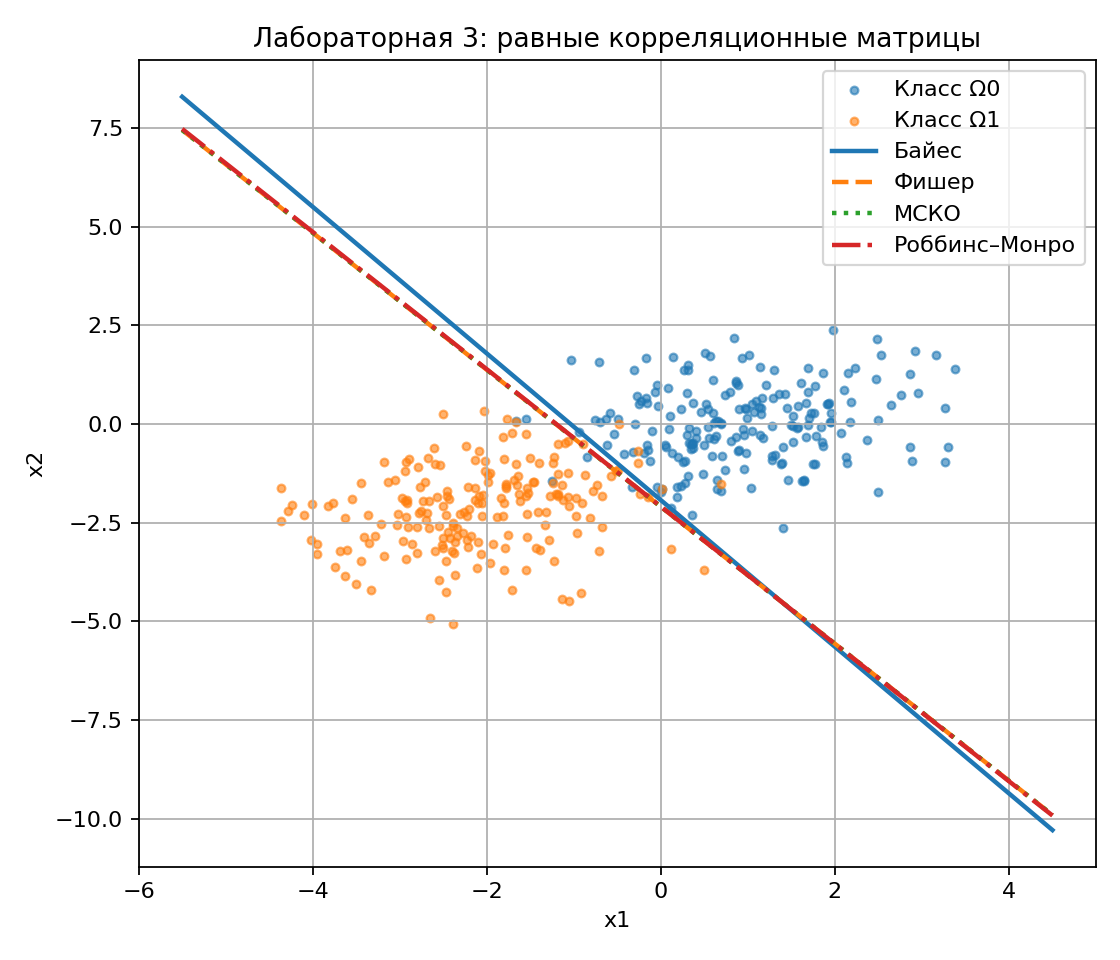
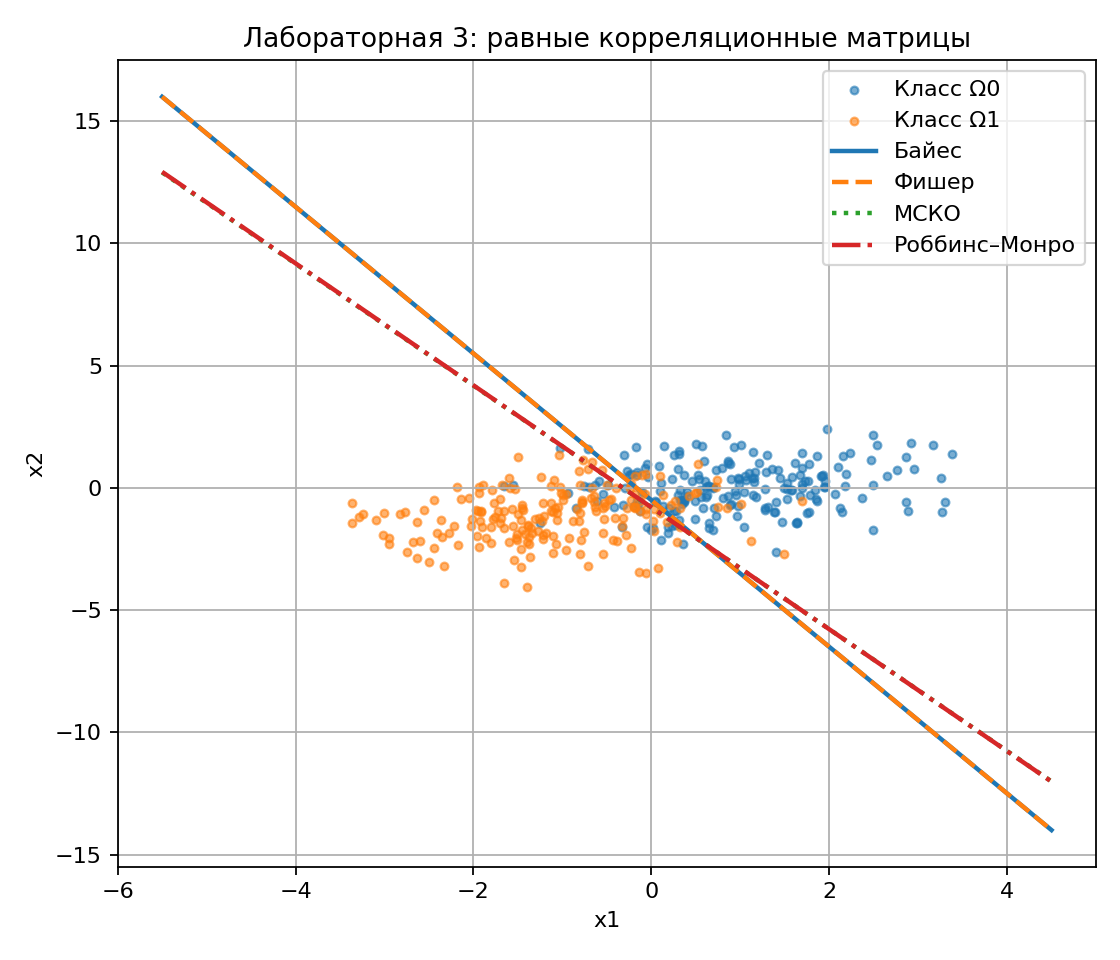
lab3 done

Changed region(s): [[0.0625, 0.0312, 0.9688, 0.9375], [0.5312, 0.9375, 0.5625, 0.9688], [0.1562, 0.1875, 0.1875, 0.2188]]

diff --git a/ЛР3/lab3.py b/ЛР3/lab3.py
@@ -19,14 +19,15 @@ rng = np.random.default_rng(7)
 N = 200
 
 M1 = np.array([1.0, 0.0])
-M2 = np.array([-2.0, -2.0])
+M2 = np.array([-1.0, -1.0])
 
 B_equal = np.array([[1.0, 0.2],
                     [0.2, 1.0]])
 B1 = np.array([[1.0, -0.9],
                [-0.9, 1.0]])
-B2 = np.array([[1.0, 0.0],
-               [0.0, 1.0]])
+B2 = np.array([[1.0, 0.4],
+               [0.4, 1.0]])
+
 
 def ensure_data() -> Dict[str, np.ndarray]:
     files = {
@@ -56,8 +57,18 @@ def ensure_data() -> Dict[str, np.ndarray]:
 
     return {'X1': X1, 'X2': X2, 'X1_3': X1_3, 'X2_3': X2_3}
 
+
 def classify_linear(X: np.ndarray, w: np.ndarray, w0: float) -> np.ndarray:
     return (X @ w + w0 >= 0).astype(int)
+
+
+def classification_error(X0: np.ndarray, X1: np.ndarray, w: np.ndarray, w0: float) -> float:
+    accuracy = 0.5 * (
+        np.mean(classify_linear(X0, w, w0) == 0) +
+        np.mean(classify_linear(X1, w, w0) == 1)
+    )
+    return 1.0 - accuracy
+
 
 def plot_linear_boundary(ax, w, w0, xlim, label, style='-'):
     xs = np.linspace(xlim[0], xlim[1], 200)
@@ -68,6 +79,54 @@ def plot_linear_boundary(ax, w, w0, xlim, label, style='-'):
     ys = -(w[0] * xs + w0) / w[1]
     ax.plot(xs, ys, style, linewidth=2, label=label)
 
+def plot_bayes_quadratic(ax, M1, B1, M2, B2, xlim, ylim, label):
+    xs = np.linspace(xlim[0], xlim[1], 400)
+    ys = np.linspace(ylim[0], ylim[1], 400)
+
+    Xg, Yg = np.meshgrid(xs, ys)
+
+    grid = np.stack(
+        [Xg.ravel(), Yg.ravel()],
+        axis=1
+    )
+
+    invB1 = inv(B1)
+    invB2 = inv(B2)
+
+    g1 = (
+        -0.5 * np.log(det(B1))
+        -0.5 * np.einsum(
+            '...i,ij,...j->...',
+            grid - M1,
+            invB1,
+            grid - M1
+        )
+    )
+
+    g2 = (
+        -0.5 * np.log(det(B2))
+        -0.5 * np.einsum(
+            '...i,ij,...j->...',
+            grid - M2,
+            invB2,
+            grid - M2
+        )
+    )
+
+    Z = (g2 - g1).reshape(Xg.shape)
+
+    ax.contour(
+        Xg,
+        Yg,
+        Z,
+        levels=[0],
+        linewidths=2,
+        linestyles='-',
+        colors='black'
+    )
+
+    ax.plot([], [], color='black', linewidth=2, label=label)
+
 def fisher_linear_params(M0: np.ndarray, B0: np.ndarray, M1: np.ndarray, B1: np.ndarray):
     Sw = B0 + B1
     w = inv(Sw) @ (M1 - M0)
@@ -75,6 +134,7 @@ def fisher_linear_params(M0: np.ndarray, B0: np.ndarray, M1: np.ndarray, B1: np.
     m1 = w @ M1
     w0 = -0.5 * (m1 + m0)
     return w, w0
+
 
 def mse_linear_params(X0: np.ndarray, X1: np.ndarray):
     Z = np.vstack([
@@ -87,6 +147,7 @@ def mse_linear_params(X0: np.ndarray, X1: np.ndarray):
     ])
     W = np.linalg.pinv(Z) @ y
     return W[:-1], W[-1]
+
 
 def rm_linear_params(X0: np.ndarray, X1: np.ndarray, alpha0=0.4, beta=0.7, epochs=25, W0=None, seed=7):
     rng_local = np.random.default_rng(seed)
@@ -114,6 +175,7 @@ def rm_linear_params(X0: np.ndarray, X1: np.ndarray, alpha0=0.4, beta=0.7, epoch
             t += 1
     return W[:-1], W[-1], np.asarray(hist)
 
+
 def rm_history_errors(history: np.ndarray, X0: np.ndarray, X1: np.ndarray):
     Z = np.vstack([
         np.hstack([X1, np.ones((X1.shape[0], 1))]),
@@ -129,6 +191,7 @@ def rm_history_errors(history: np.ndarray, X0: np.ndarray, X1: np.ndarray):
         errs.append(float(np.mean(pred != y)))
     return np.asarray(errs)
 
+
 def lab3(data: Dict[str, np.ndarray]):
     X1, X2 = data['X1'], data['X2']
     X1_3, X2_3 = data['X1_3'], data['X2_3']
@@ -138,30 +201,29 @@ def lab3(data: Dict[str, np.ndarray]):
 
     M1_hat, B1_hat = estimate_params(X1)
     M2_hat, B2_hat = estimate_params(X2)
-    w_f_eq, w0_f_eq = fisher_linear_params(M1_hat, B1_hat, M2_hat, B2_hat)
+    w_f_eq, w0_f_eq = fisher_linear_params(M1, B_equal, M2, B_equal)
     w_mse_eq, w0_mse_eq = mse_linear_params(X1, X2)
     w_rm_eq, w0_rm_eq, hist_eq = rm_linear_params(X1, X2, alpha0=0.35, beta=0.7, epochs=30, seed=11)
     err_hist_eq = rm_history_errors(hist_eq, X1, X2)
 
     M1_hat3, B1_hat3 = estimate_params(X1_3)
     M2_hat3, B2_hat3 = estimate_params(X2_3)
-    w_f_une, w0_f_une = fisher_linear_params(M1_hat3, B1_hat3, M2_hat3, B2_hat3)
+    w_f_une, w0_f_une = fisher_linear_params(M1, B1, M2, B2)
     w_mse_une, w0_mse_une = mse_linear_params(X1_3, X2_3)
     w_rm_une, w0_rm_une, hist_une = rm_linear_params(X1_3, X2_3, alpha0=0.35, beta=0.7, epochs=30, seed=13)
     err_hist_une = rm_history_errors(hist_une, X1_3, X2_3)
 
     bayes_pred_eq_0 = classify_linear(X1, w_b, w0_b)
     bayes_pred_eq_1 = classify_linear(X2, w_b, w0_b)
-    bayes_err_eq = 0.5 * (np.mean(bayes_pred_eq_0 == 1) + np.mean(bayes_pred_eq_1 == 0))
-
+    bayes_err_eq = 1.0 - 0.5 * (np.mean(bayes_pred_eq_0 == 0) + np.mean(bayes_pred_eq_1 == 1))
     def bayes_predict_une(X):
-        g1 = -0.5*np.log(det(B1)) - 0.5*np.einsum('...i,ij,...j->...', X - M1, inv(B1), X - M1)
-        g2 = -0.5*np.log(det(B2)) - 0.5*np.einsum('...i,ij,...j->...', X - M2, inv(B2), X - M2)
+        g1 = -0.5 * np.log(det(B1)) - 0.5 * np.einsum('...i,ij,...j->...', X - M1, inv(B1), X - M1)
+        g2 = -0.5 * np.log(det(B2)) - 0.5 * np.einsum('...i,ij,...j->...', X - M2, inv(B2), X - M2)
         return (g2 >= g1).astype(int)
 
     bayes_pred_une_0 = bayes_predict_une(X1_3)
     bayes_pred_une_1 = bayes_predict_une(X2_3)
-    bayes_err_une = 0.5 * (np.mean(bayes_pred_une_0 == 1) + np.mean(bayes_pred_une_1 == 0))
+    bayes_err_une = 1.0 - 0.5 * (np.mean(bayes_pred_une_0 == 0) + np.mean(bayes_pred_une_1 == 1))
 
     fig, ax = plt.subplots(figsize=(7, 6))
     ax.scatter(X1[:, 0], X1[:, 1], s=12, alpha=0.6, label='Класс Ω0')
@@ -180,6 +242,7 @@ def lab3(data: Dict[str, np.ndarray]):
     plot_linear_boundary(ax, w_f_une, w0_f_une, (-5.5, 4.5), 'Фишер', '--')
     plot_linear_boundary(ax, w_mse_une, w0_mse_une, (-5.5, 4.5), 'МСКО', ':')
     plot_linear_boundary(ax, w_rm_une, w0_rm_une, (-5.5, 4.5), 'Роббинс–Монро', '-.')
+    plot_bayes_quadratic(ax, M1, B1, M2, B2, (-5.5, 4.5), (-5.5, 4.5), 'Байес')
     ax.set_title('Лабораторная 3: неравные корреляционные матрицы')
     ax.set_xlabel('x1'); ax.set_ylabel('x2'); ax.grid(True); ax.legend()
     fig.tight_layout(); fig.savefig(OUT / 'lab3_unequal_linear.png', dpi=160); plt.close(fig)
@@ -195,18 +258,18 @@ def lab3(data: Dict[str, np.ndarray]):
     results = {
         'equal_cov': {
             'bayes_train_err': bayes_err_eq,
-            'fisher_train_err': 0.5 * (np.mean(classify_linear(X1, w_f_eq, w0_f_eq) == 1) + np.mean(classify_linear(X2, w_f_eq, w0_f_eq) == 0)),
-            'mse_train_err': 0.5 * (np.mean(classify_linear(X1, w_mse_eq, w0_mse_eq) == 1) + np.mean(classify_linear(X2, w_mse_eq, w0_mse_eq) == 0)),
-            'rm_train_err': 0.5 * (np.mean(classify_linear(X1, w_rm_eq, w0_rm_eq) == 1) + np.mean(classify_linear(X2, w_rm_eq, w0_rm_eq) == 0)),
+            'fisher_train_err': classification_error(X1, X2, w_f_eq, w0_f_eq),
+            'mse_train_err': classification_error(X1, X2, w_mse_eq, w0_mse_eq),
+            'rm_train_err': classification_error(X1, X2, w_rm_eq, w0_rm_eq),
             'fisher_params': {'w': w_f_eq.tolist(), 'w0': float(w0_f_eq)},
             'mse_params': {'w': w_mse_eq.tolist(), 'w0': float(w0_mse_eq)},
             'rm_params': {'w': w_rm_eq.tolist(), 'w0': float(w0_rm_eq)},
         },
         'unequal_cov': {
             'bayes_train_err': bayes_err_une,
-            'fisher_train_err': 0.5 * (np.mean(classify_linear(X1_3, w_f_une, w0_f_une) == 1) + np.mean(classify_linear(X2_3, w_f_une, w0_f_une) == 0)),
-            'mse_train_err': 0.5 * (np.mean(classify_linear(X1_3, w_mse_une, w0_mse_une) == 1) + np.mean(classify_linear(X2_3, w_mse_une, w0_mse_une) == 0)),
-            'rm_train_err': 0.5 * (np.mean(classify_linear(X1_3, w_rm_une, w0_rm_une) == 1) + np.mean(classify_linear(X2_3, w_rm_une, w0_rm_une) == 0)),
+            'fisher_train_err': classification_error(X1_3, X2_3, w_f_une, w0_f_une),
+            'mse_train_err': classification_error(X1_3, X2_3, w_mse_une, w0_mse_une),
+            'rm_train_err': classification_error(X1_3, X2_3, w_rm_une, w0_rm_une),
             'fisher_params': {'w': w_f_une.tolist(), 'w0': float(w0_f_une)},
             'mse_params': {'w': w_mse_une.tolist(), 'w0': float(w0_mse_une)},
             'rm_params': {'w': w_rm_une.tolist(), 'w0': float(w0_rm_une)},
@@ -214,14 +277,23 @@ def lab3(data: Dict[str, np.ndarray]):
     }
     return results
 
+
 def write_report_text(lab3_res):
     lines = []
     lines.append('Лабораторная 3')
     lines.append('---------------')
     e = lab3_res['equal_cov']
-    lines.append(f"Равные ковариации: Bayes={e['bayes_train_err']:.4f}, Fisher={e['fisher_train_err']:.4f}, MSE={e['mse_train_err']:.4f}, RM={e['rm_train_err']:.4f}")
+    lines.append(f"Равные ковариации: P(ош) Bayes={e['bayes_train_err']:.4f}, Fisher={e['fisher_train_err']:.4f}, MSE={e['mse_train_err']:.4f}, RM={e['rm_train_err']:.4f}")
     u = lab3_res['unequal_cov']
-    lines.append(f"Неравные ковариации: Bayes={u['bayes_train_err']:.4f}, Fisher={u['fisher_train_err']:.4f}, MSE={u['mse_train_err']:.4f}, RM={u['rm_train_err']:.4f}")
+    lines.append(f"Неравные ковариации: P(ош) Bayes={u['bayes_train_err']:.4f}, Fisher={u['fisher_train_err']:.4f}, MSE={u['mse_train_err']:.4f}, RM={u['rm_train_err']:.4f}")
+    lines.append('')
+    lines.append('Параметры классификаторов:')
+    lines.append(f"Равные ковариации, Фишер: w={e['fisher_params']['w']}, w0={e['fisher_params']['w0']:.6f}")
+    lines.append(f"Равные ковариации, МСКО: w={e['mse_params']['w']}, w0={e['mse_params']['w0']:.6f}")
+    lines.append(f"Равные ковариации, Роббинс–Монро: w={e['rm_params']['w']}, w0={e['rm_params']['w0']:.6f}")
+    lines.append(f"Неравные ковариации, Фишер: w={u['fisher_params']['w']}, w0={u['fisher_params']['w0']:.6f}")
+    lines.append(f"Неравные ковариации, МСКО: w={u['mse_params']['w']}, w0={u['mse_params']['w0']:.6f}")
+    lines.append(f"Неравные ковариации, Роббинс–Монро: w={u['rm_params']['w']}, w0={u['rm_params']['w0']:.6f}")
     lines.append('')
     lines.append('Файлы графиков:')
     lines.append('lab3_equal_linear.png')
@@ -229,11 +301,13 @@ def write_report_text(lab3_res):
     lines.append('lab3_rm_convergence.png')
     (OUT / 'results.txt').write_text('\n'.join(lines), encoding='utf-8')
 
+
 def main():
     data = ensure_data()
     lab3_res = lab3(data)
     write_report_text(lab3_res)
     print(f'Готово. Результаты сохранены в: {OUT}')
+
 
 if __name__ == '__main__':
     main()
